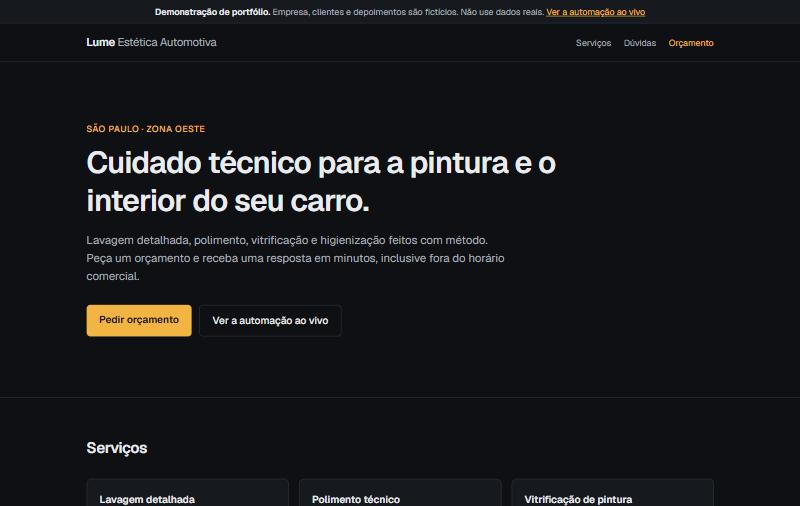
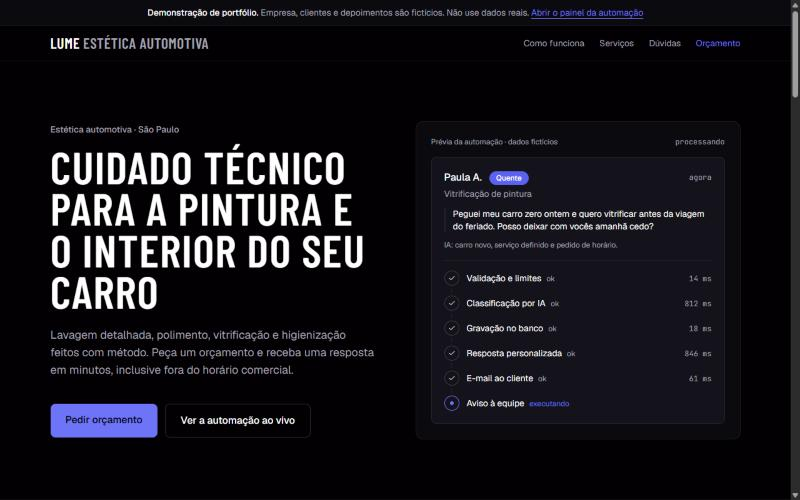
docs: README com GIF do fluxo, prints novos e decisões técnicas
- GIF de 20 s (envio do formulário até o lead no painel) e prints da nova identidade
- diagramas Mermaid com log do servidor, painel paginado e script de reset
- decisões técnicas: serverless, classificação estruturada, prompt injection,
  controle de custo, privacidade do painel, provedor isolado e design

diff --git a/README.md b/README.md
@@ -6,9 +6,11 @@ Automação de captação de leads com IA para pequenas empresas de serviços: o
 
 **Demo ao vivo:** https://captacao-inteligente-teal.vercel.app · [painel da automação](https://captacao-inteligente-teal.vercel.app/demo/leads)
 
-| Landing com formulário | Painel da automação |
+![Fluxo completo: envio do formulário, etapas da automação e o lead chegando no painel](docs/fluxo.gif)
+
+| Landing com prévia da automação | Painel da automação |
 | --- | --- |
-| ![Landing page da Lume Estética Automotiva](docs/landing.jpg) | ![Painel com leads classificados e linha do tempo das etapas](docs/painel.jpg) |
+| ![Landing da Lume Estética Automotiva com a prévia animada das etapas](docs/landing.jpg) | ![Painel com contadores, lead classificado e linha do tempo das etapas](docs/painel.jpg) |
 
 ## O problema
 
@@ -24,11 +26,13 @@ Este projeto resolve as duas pontas:
 ```mermaid
 flowchart LR
     V[Visitante] -->|formulário| L["Landing (Next.js)"]
-    L -->|POST /api/lead| F["Função serverless<br/>(Vercel)"]
-    F -->|rate limit, leads| DB[("PostgreSQL<br/>Neon")]
-    F -->|classificação e resposta| AI["Gemini Flash-Lite<br/>(Google)"]
-    F -->|e-mails| R[Resend]
-    P["Painel /demo/leads"] -->|GET /api/leads a cada 5s| F
+    L -->|POST /api/lead| F["Funções serverless<br/>(Vercel)"]
+    F -->|rate limit, cota diária, leads| DB[("PostgreSQL<br/>Neon")]
+    F -->|classificação e resposta<br/>nome, serviço e mensagem| AI["Gemini 3.5 Flash-Lite<br/>(Google)"]
+    F -->|e-mails só para DEMO_RECIPIENT| R[Resend]
+    F -.->|erro completo| LOG["Log do servidor<br/>(Vercel)"]
+    P["Painel /demo/leads"] -->|"GET /api/leads?page=N a cada 5s<br/>dados mascarados e erros genéricos"| F
+    S["npm run demo:reset"] -->|"POST /api/demo/reset + RESET_TOKEN"| F
 ```
 
 Tudo roda em funções serverless na Vercel e serviços gerenciados no plano gratuito: não há servidor, fila ou n8n para manter ligado.
@@ -45,22 +49,23 @@ sequenceDiagram
     C->>API: pedido (nome, telefone, e-mail, serviço, mensagem, consentimento)
     API->>API: 1. tamanho, honeypot e schema zod
     API->>DB: 1. rate limit por IP + cota diária global
+    Note over API: cota esgotada: 429 amigável, sem chamar a IA
     API->>IA: 2. classificar (JSON validado com zod; 2 tentativas; senão "morno")
     API->>DB: 3. gravar lead com classificação
-    API->>IA: 4. gerar resposta (sem preço nem prazo)
+    API->>IA: 4. gerar resposta no tom da classificação (sem preço nem prazo)
     par
         API->>E: 5. resposta ao cliente
     and
         API->>E: 5. aviso à equipe
     end
     API->>DB: status de cada etapa (completo ou parcial)
-    API-->>C: status de cada etapa
+    API-->>C: status de cada etapa, só com mensagens genéricas
 ```
 
 1. **Validação e limites.** O corpo é limitado a 8 KB, o honeypot descarta bots em silêncio, e o mesmo schema zod do formulário valida os campos. Depois, o rate limit por IP (5 por hora) e a cota diária global são checados no Postgres, compartilhado por todas as funções serverless. Se o banco não responder, a IA não é chamada.
-2. **Classificação por IA.** O Gemini devolve `{ "temperatura", "justificativa" }` em JSON estruturado, que é validado de novo com zod. Se vier inválido, há uma nova tentativa; se falhar de novo, o lead entra como **morno** com o motivo "classificação indisponível".
+2. **Classificação por IA.** O Gemini devolve `{ "temperatura", "justificativa" }` em JSON estruturado, que é validado de novo com zod. Se vier inválido, há uma nova tentativa; se falhar de novo, o lead entra como **morno**.
 3. **Gravação.** O lead é salvo com a classificação e a linha do tempo das etapas até ali.
-4. **Resposta personalizada.** Texto curto e cordial. Se a IA falhar ou citar preço, prazo ou desconto, entra uma resposta padrão segura.
+4. **Resposta personalizada.** O tom segue a classificação: objetivo para leads quentes, sem pressão para mornos e neutro para frios, pedindo mais detalhes (modelo do carro, estado atual, o que quer melhorar). Se a IA falhar ou citar preço, prazo ou desconto, entra um texto padrão seguro.
 5. **E-mails.** A resposta vai ao cliente e um resumo vai à equipe, em paralelo. No modo demo, os dois vão só para `DEMO_RECIPIENT`.
 6. **Retorno.** O front recebe o status de cada etapa (`ok`, `erro` ou `pulada`), e o painel mostra o lead como **completo** ou **parcial**.
 
@@ -68,28 +73,52 @@ Uma falha nunca derruba as etapas seguintes. Cada uma registra status, detalhe e
 
 ## Decisões técnicas
 
-**Por que serverless.** Um lead é um evento curto e esporádico. Funções na Vercel atendem 24/7 sem custo parado, escalam sozinhas e eliminam o "servidor que precisa ficar ligado". O estado compartilhado (leads e contadores de limite) fica no Postgres do Neon, que também é serverless.
+### Por que serverless
 
-**Por que classificação estruturada.** Texto livre da IA não serve para automação. A classificação usa *structured outputs* com um JSON Schema gerado do mesmo schema zod que valida a resposta (`src/lib/ai.ts`). O código nunca confia na saída sem validar, sempre tem um fallback determinístico e o painel mostra quando ele foi usado.
+Um lead é um evento curto e esporádico. Funções na Vercel atendem 24/7 sem custo parado, escalam sozinhas e eliminam o "servidor que precisa ficar ligado". O estado compartilhado (leads e contadores de limite) fica no Postgres do Neon, que também é serverless. Por isso o rate limit não usa memória: cada invocação pode rodar numa instância diferente.
 
-**Como evitei prompt injection.** A mensagem do cliente é dado, nunca instrução:
+### Por que classificação estruturada
+
+Texto livre da IA não serve para automação. A classificação usa *structured outputs* com um JSON Schema gerado do mesmo schema zod que valida a resposta (`src/lib/ai.ts`). O código nunca confia na saída sem validar, tenta de novo uma vez e, se ainda assim falhar, usa um fallback determinístico ("morno"). O painel mostra quando o fallback foi usado.
+
+### Proteção contra prompt injection
+
+A mensagem do cliente é dado, nunca instrução:
 
 - vai serializada como JSON dentro de `<pedido>…</pedido>`, com `<` e `>` escapados, para que o texto não consiga fechar a tag e "sair" da área de dados;
-- o system prompt diz explicitamente para ignorar qualquer instrução dentro do pedido;
+- o system prompt diz explicitamente para ignorar qualquer instrução dentro do pedido; o tom da resposta (que depende da classificação) também vai no system prompt, nunca misturado à mensagem;
 - a classificação só aceita `quente`, `morno` ou `frio` (zod), então o pior que uma injeção consegue é mudar a própria classificação;
 - a resposta passa por um filtro que troca o texto se aparecer preço, prazo ou desconto;
 - e-mails são só texto puro e o painel renderiza tudo como texto (React escapa; não há `dangerouslySetInnerHTML`).
 
-**Como evitei abuso de custo.**
+Há testes que enviam uma mensagem tentando fechar a tag e confirmam que ela continua dentro da área de dados.
 
-- Modelo gratuito e rápido (Gemini 3.5 Flash-Lite, plano free do Google AI Studio), raciocínio no mínimo, limite de 300 tokens (classificação) e 500 (resposta), timeout de 8 s por chamada e no máximo 3 chamadas à IA por lead no pior caso.
-- Rate limit por IP (`RATE_LIMIT_PER_HOUR`) e cota diária global (`DAILY_LEAD_LIMIT`): ao atingir, o app responde com mensagem amigável e **não** chama a IA.
+### Controle de custo
+
+- Modelo gratuito e rápido (Gemini 3.5 Flash-Lite, plano free do Google AI Studio), raciocínio no mínimo, limite de 300 tokens (classificação) e 500 (resposta), timeout de 8 s por chamada.
+- Rate limit por IP (`RATE_LIMIT_PER_HOUR`) e cota diária global (`DAILY_LEAD_LIMIT`). Ao atingir a cota, o app responde `429` com mensagem amigável e `Retry-After`, **sem chamar a IA** (coberto por teste na rota).
 - O IP nunca é salvo puro, só como hash SHA-256 com salt (`IP_HASH_SALT`).
 - Honeypot e limite de tamanho barram spam antes de qualquer custo.
 
-**Privacidade.** O painel é público, então a API reduz tudo o que identifica uma pessoa: nome vira primeiro nome + inicial (`Marina T.`), e-mail e telefone saem mascarados (`m***@e***.com`, `(**) *****-**21`), a mensagem é cortada em 200 caracteres e só 10 leads aparecem por página. No modo demo, nenhum e-mail é enviado ao endereço digitado no formulário. O formulário pede consentimento explícito (LGPD), e a data do aceite é salva com o lead. **O provedor de IA é o Google Gemini** (`gemini-3.5-flash-lite`, plano gratuito do AI Studio). Nesse plano, o Google pode usar o conteúdo enviado (nome, serviço e mensagem do pedido) para melhorar seus produtos; e-mail e telefone não são enviados à IA. Por isso o formulário, a FAQ e o banner avisam para não usar dados reais. Em produção, use o plano pago, em que o conteúdo não é usado dessa forma.
+### Privacidade do painel
 
-**Provedor de IA isolado.** Só `src/lib/ai.ts` conhece o Gemini, chamado direto pela API REST, sem SDK. O projeto começou com a Anthropic e foi trocado para o Gemini por causa do plano gratuito: a troca mexeu só nesse arquivo. Para trocar de novo, basta reescrever as funções `callGemini` e `complete`; os prompts, o parser e o fallback continuam os mesmos.
+O painel é público, então a API reduz tudo o que identifica uma pessoa, inclusive em registros antigos:
+
+- nome vira primeiro nome + inicial (`Marina T.`); e-mail e telefone saem mascarados (`m***@e***.com`, `(**) *****-**21`);
+- a mensagem é cortada em 200 caracteres e só 10 leads aparecem por página;
+- **erros de provedores nunca chegam ao front**: o pipeline grava só mensagens fixas ("IA indisponível; usada a classificação padrão") e manda o erro completo para o log do servidor. Na saída, uma lista de permissões troca qualquer outro detalhe (request_id, mensagem de cobrança, stack, nome de provedor) por um texto genérico.
+
+No modo demo, nenhum e-mail é enviado ao endereço digitado no formulário. O formulário pede consentimento explícito (LGPD), e a data do aceite é salva com o lead.
+
+**O provedor de IA é o Google Gemini** (`gemini-3.5-flash-lite`, plano gratuito do AI Studio). Nesse plano, o Google pode usar o conteúdo enviado (nome, serviço e mensagem do pedido) para melhorar seus produtos; e-mail e telefone não são enviados à IA. Por isso o formulário, a FAQ e o banner avisam para não usar dados reais. Em produção, use o plano pago, em que o conteúdo não é usado dessa forma.
+
+### Provedor de IA isolado
+
+Só `src/lib/ai.ts` conhece o Gemini, chamado direto pela API REST, sem SDK. O projeto começou com a Anthropic e foi trocado para o Gemini por causa do plano gratuito: a troca mexeu só nesse arquivo. Para trocar de novo, basta reescrever as funções `callGemini` e `complete`; os prompts, o parser e o fallback continuam os mesmos.
+
+### Design e acessibilidade
+
+Tema escuro com um único acento (índigo `#6E74F7`), todas as cores em tokens CSS (`src/app/globals.css`) e contrastes AA medidos. Branco sobre o índigo puro dá 3,8:1, por isso os CTAs usam texto escuro e o badge "quente" usa um índigo um tom mais escuro. Títulos em Barlow Condensed, corpo em Geist e números em JetBrains Mono. A prévia animada da landing usa os mesmos componentes do painel e fica estática com `prefers-reduced-motion`. FAQ com botões reais (`aria-expanded`/`aria-controls`), link "Pular para o conteúdo", foco visível e layout sem rolagem horizontal de 375 px a 1280 px.
 
 ## Stack
 
@@ -191,21 +220,27 @@ Diferenças em relação ao app: não há rate limit nem cota diária (configure
 ```
 src/
   app/
-    page.tsx               landing da empresa fictícia
-    demo/leads/page.tsx    painel da automação
-    api/lead/route.ts      automação (POST)
-    api/leads/route.ts     leads para o painel, mascarados (GET)
-    api/demo/reset/route.ts reset protegido por token (POST)
-  components/              formulário, painel, linha do tempo e badges
+    page.tsx                 landing da empresa fictícia
+    demo/leads/page.tsx      painel da automação
+    api/lead/route.ts        automação (POST)
+    api/leads/route.ts       leads paginados e mascarados para o painel (GET)
+    api/demo/reset/route.ts  reset protegido por token (POST)
+    globals.css              tokens de cor e tipografia
+  components/                formulário, painel, prévia animada, stepper, FAQ, badges e ícones
   lib/
-    lead-schema.ts         schema zod único (cliente e servidor)
-    pipeline.ts            etapas 2 a 5 e registro de status
-    ai.ts                  provedor de IA, prompts, parser e filtros
-    rate-limit.ts          limites por IP e diário
-    email.ts               Resend e regra do modo demo
-prisma/                    schema, migrações e seed
-n8n/workflow.json          alternativa em n8n
-tests/                     Vitest
+    lead-schema.ts           schema zod único (cliente e servidor)
+    pipeline.ts              etapas 2 a 5 e registro de status
+    step-messages.ts         mensagens públicas das etapas e filtro por lista de permissões
+    ai.ts                    provedor de IA, prompts, parser e filtros
+    mask.ts                  máscaras de nome, e-mail, telefone e mensagem
+    rate-limit.ts            limites por IP e diário
+    email.ts                 Resend e regra do modo demo
+    seed-data.ts             4 leads de exemplo (quente, morno, frio e parcial)
+scripts/reset-demo.ts        npm run demo:reset
+prisma/                      schema, migrações e seed
+n8n/workflow.json            alternativa em n8n
+tests/                       Vitest
+docs/                        GIF e prints do README
 ```
 
 ## Próximos passos
